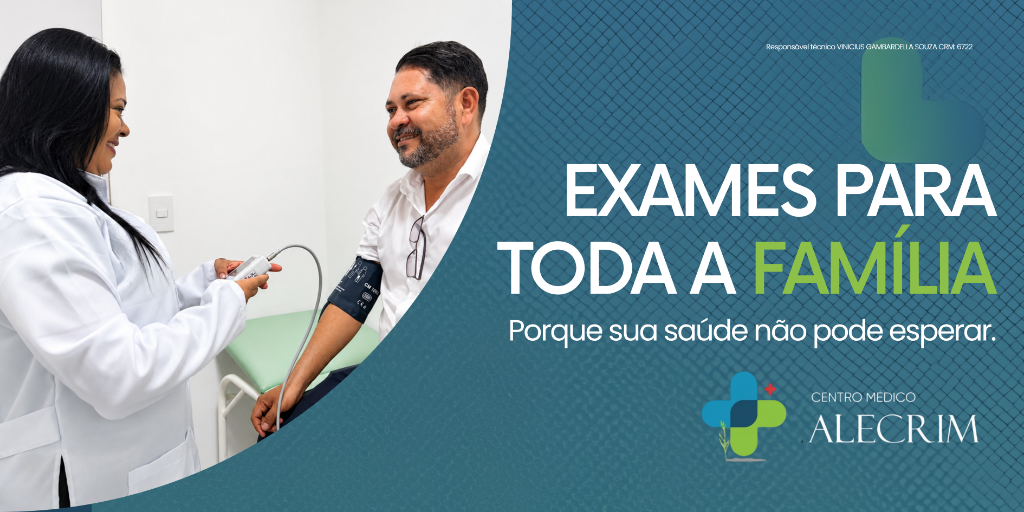
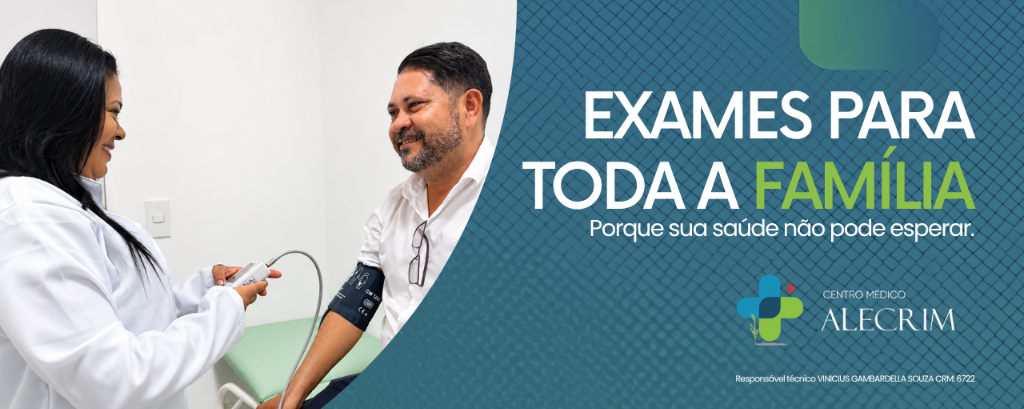
att

diff --git a/Alecrim/especialidades.html b/Alecrim/especialidades.html
@@ -28,7 +28,7 @@
   <aside id="sidebar" class="sidebar" role="dialog" aria-modal="true" aria-label="Menu de navegação">
     <div class="sidebar__header">
       <a href="index.html" class="sidebar__logo-link">
-        <img src="assets/logo.png" alt="Centro Médico Alecrim" class="sidebar__logo-img">
+        <img src="assets/logo-nova.png" alt="Centro Médico Alecrim" class="sidebar__logo-img">
       </a>
       <button id="sidebar-close" class="sidebar__close" aria-label="Fechar menu">✕</button>
     </div>
@@ -54,7 +54,7 @@
     <nav id="navbar" class="navbar" role="navigation" aria-label="Navegação principal">
       <div class="navbar__inner">
         <a href="index.html" class="navbar__logo">
-          <img src="assets/logo.png" alt="Centro Médico Alecrim" class="navbar__logo-img">
+          <img src="assets/logo-nova.png" alt="Centro Médico Alecrim" class="navbar__logo-img">
         </a>
         <ul class="navbar__links" role="list">
           <li><a href="index.html">Home</a></li>
@@ -153,7 +153,7 @@
       <div class="footer__grid">
         <div class="footer__brand">
           <a href="index.html" class="footer__logo">
-            <img src="assets/logo.png" alt="Centro Médico Alecrim" class="footer__logo-img">
+            <img src="assets/logo-nova.png" alt="Centro Médico Alecrim" class="footer__logo-img">
           </a>
           <p class="footer__description">Cuidando da sua saúde com humanização e preços acessíveis em São Cristóvão, SE.</p>
           <div class="footer__social">

diff --git a/Alecrim/exames.html b/Alecrim/exames.html
@@ -28,7 +28,7 @@
   <aside id="sidebar" class="sidebar" role="dialog" aria-modal="true" aria-label="Menu de navegação">
     <div class="sidebar__header">
       <a href="index.html" class="sidebar__logo-link">
-        <img src="assets/logo.png" alt="Centro Médico Alecrim" class="sidebar__logo-img">
+        <img src="assets/logo-nova.png" alt="Centro Médico Alecrim" class="sidebar__logo-img">
       </a>
       <button id="sidebar-close" class="sidebar__close" aria-label="Fechar menu">✕</button>
     </div>
@@ -54,7 +54,7 @@
     <nav id="navbar" class="navbar" role="navigation" aria-label="Navegação principal">
       <div class="navbar__inner">
         <a href="index.html" class="navbar__logo">
-          <img src="assets/logo.png" alt="Centro Médico Alecrim" class="navbar__logo-img">
+          <img src="assets/logo-nova.png" alt="Centro Médico Alecrim" class="navbar__logo-img">
         </a>
         <ul class="navbar__links" role="list">
           <li><a href="index.html">Home</a></li>
@@ -190,7 +190,7 @@
       <div class="footer__grid">
         <div class="footer__brand">
           <a href="index.html" class="footer__logo">
-            <img src="assets/logo.png" alt="Centro Médico Alecrim" class="footer__logo-img">
+            <img src="assets/logo-nova.png" alt="Centro Médico Alecrim" class="footer__logo-img">
           </a>
           <p class="footer__description">Cuidando da sua saúde com humanização e preços acessíveis em São Cristóvão, SE.</p>
           <div class="footer__social">

diff --git a/Alecrim/contato.html b/Alecrim/contato.html
@@ -30,7 +30,7 @@
   <aside id="sidebar" class="sidebar" role="dialog" aria-modal="true" aria-label="Menu de navegação">
     <div class="sidebar__header">
       <a href="index.html" class="sidebar__logo-link">
-        <img src="assets/logo.png" alt="Centro Médico Alecrim" class="sidebar__logo-img">
+        <img src="assets/logo-nova.png" alt="Centro Médico Alecrim" class="sidebar__logo-img">
       </a>
       <button id="sidebar-close" class="sidebar__close" aria-label="Fechar menu">✕</button>
     </div>
@@ -56,7 +56,7 @@
     <nav id="navbar" class="navbar" role="navigation" aria-label="Navegação principal">
       <div class="navbar__inner">
         <a href="index.html" class="navbar__logo">
-          <img src="assets/logo.png" alt="Centro Médico Alecrim" class="navbar__logo-img">
+          <img src="assets/logo-nova.png" alt="Centro Médico Alecrim" class="navbar__logo-img">
         </a>
         <ul class="navbar__links" role="list">
           <li><a href="index.html">Home</a></li>
@@ -228,7 +228,7 @@
       <div class="footer__grid">
         <div class="footer__brand">
           <a href="index.html" class="footer__logo">
-            <img src="assets/logo.png" alt="Centro Médico Alecrim" class="footer__logo-img">
+            <img src="assets/logo-nova.png" alt="Centro Médico Alecrim" class="footer__logo-img">
           </a>
           <p class="footer__description">Cuidando da sua saúde com humanização e preços acessíveis em São Cristóvão, SE.
           </p>

diff --git a/Alecrim/sobre.html b/Alecrim/sobre.html
@@ -31,7 +31,7 @@
   <aside id="sidebar" class="sidebar" role="dialog" aria-modal="true" aria-label="Menu de navegação">
     <div class="sidebar__header">
       <a href="index.html" class="sidebar__logo-link">
-        <img src="assets/logo.png" alt="Centro Médico Alecrim" class="sidebar__logo-img">
+        <img src="assets/logo-nova.png" alt="Centro Médico Alecrim" class="sidebar__logo-img">
       </a>
       <button id="sidebar-close" class="sidebar__close" aria-label="Fechar menu">✕</button>
     </div>
@@ -57,7 +57,7 @@
     <nav id="navbar" class="navbar" role="navigation" aria-label="Navegação principal">
       <div class="navbar__inner">
         <a href="index.html" class="navbar__logo">
-          <img src="assets/logo.png" alt="Centro Médico Alecrim" class="navbar__logo-img">
+          <img src="assets/logo-nova.png" alt="Centro Médico Alecrim" class="navbar__logo-img">
         </a>
         <ul class="navbar__links" role="list">
           <li><a href="index.html">Home</a></li>
@@ -225,7 +225,7 @@
       <div class="footer__grid">
         <div class="footer__brand">
           <a href="index.html" class="footer__logo">
-            <img src="assets/logo.png" alt="Centro Médico Alecrim" class="footer__logo-img">
+            <img src="assets/logo-nova.png" alt="Centro Médico Alecrim" class="footer__logo-img">
           </a>
           <p class="footer__description">Cuidando da sua saúde com humanização e preços acessíveis em São Cristóvão, SE.
           </p>

diff --git a/Alecrim/index.html b/Alecrim/index.html
@@ -61,7 +61,7 @@
   <aside id="sidebar" class="sidebar" role="dialog" aria-modal="true" aria-label="Menu de navegação">
     <div class="sidebar__header">
       <a href="index.html" class="sidebar__logo-link" aria-label="Centro Médico Alecrim — Home">
-        <img src="assets/logo.png" alt="Centro Médico Alecrim" class="sidebar__logo-img">
+        <img src="assets/logo-nova.png" alt="Centro Médico Alecrim" class="sidebar__logo-img">
       </a>
       <button id="sidebar-close" class="sidebar__close" aria-label="Fechar menu">✕</button>
     </div>
@@ -91,7 +91,7 @@
       <div class="navbar__inner">
 
         <a href="index.html" class="navbar__logo" aria-label="Centro Médico Alecrim — Home">
-          <img src="assets/logo.png" alt="Centro Médico Alecrim" class="navbar__logo-img">
+          <img src="assets/logo-nova.png" alt="Centro Médico Alecrim" class="navbar__logo-img">
         </a>
 
         <ul class="navbar__links" role="list">
@@ -349,7 +349,7 @@
 
         <div class="footer__brand">
           <a href="index.html" class="footer__logo" aria-label="Centro Médico Alecrim — Home">
-            <img src="assets/logo.png" alt="Centro Médico Alecrim" class="footer__logo-img">
+            <img src="assets/logo-nova.png" alt="Centro Médico Alecrim" class="footer__logo-img">
           </a>
           <p class="footer__description">
             Cuidando da sua saúde com humanização, qualidade e preços acessíveis em São Cristóvão, SE.
